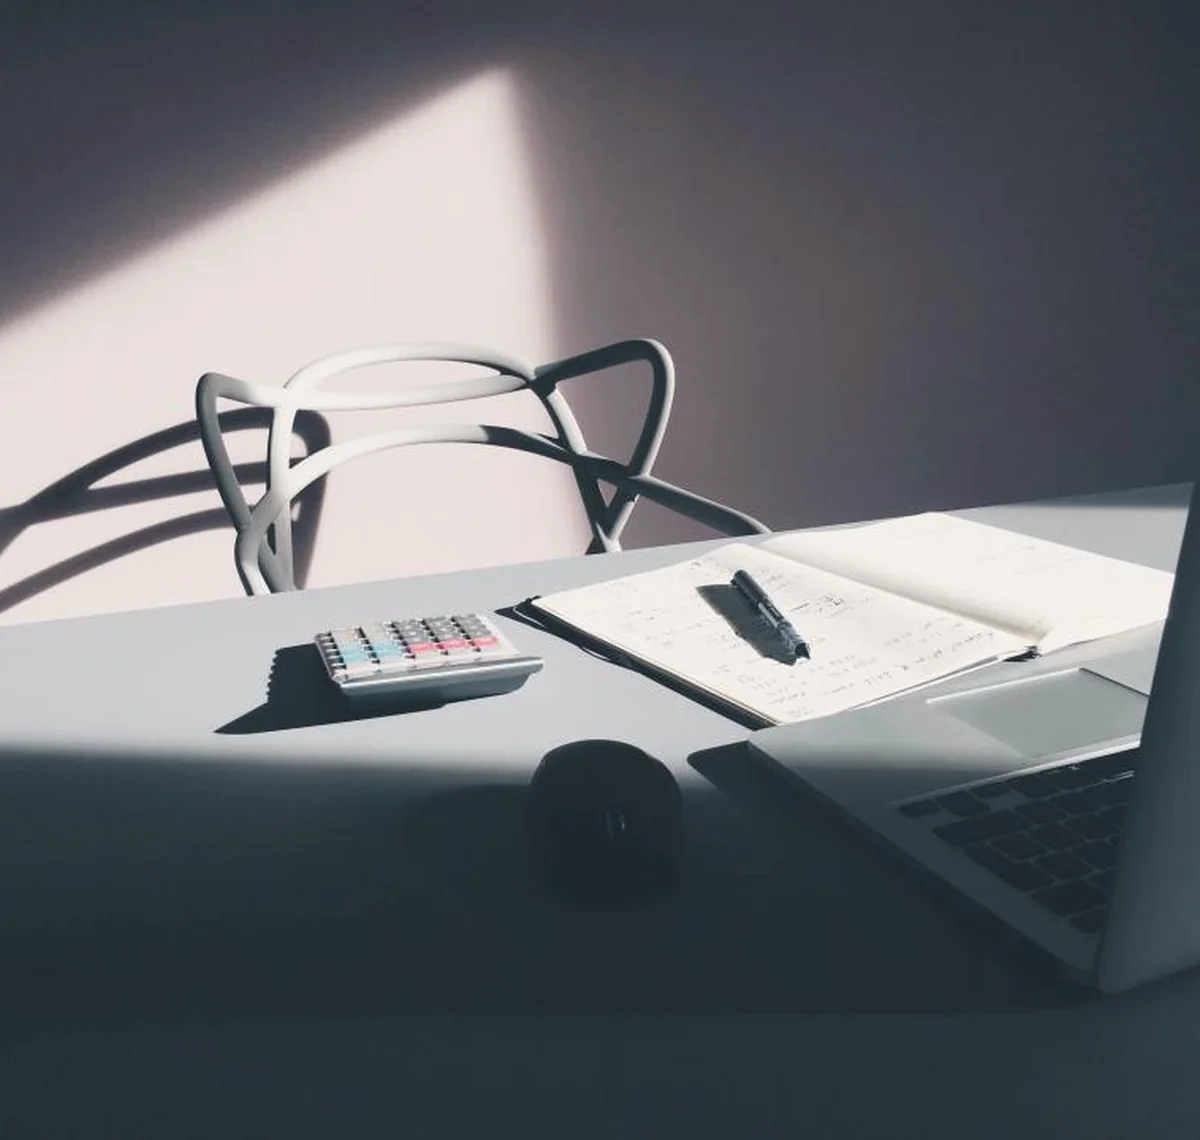
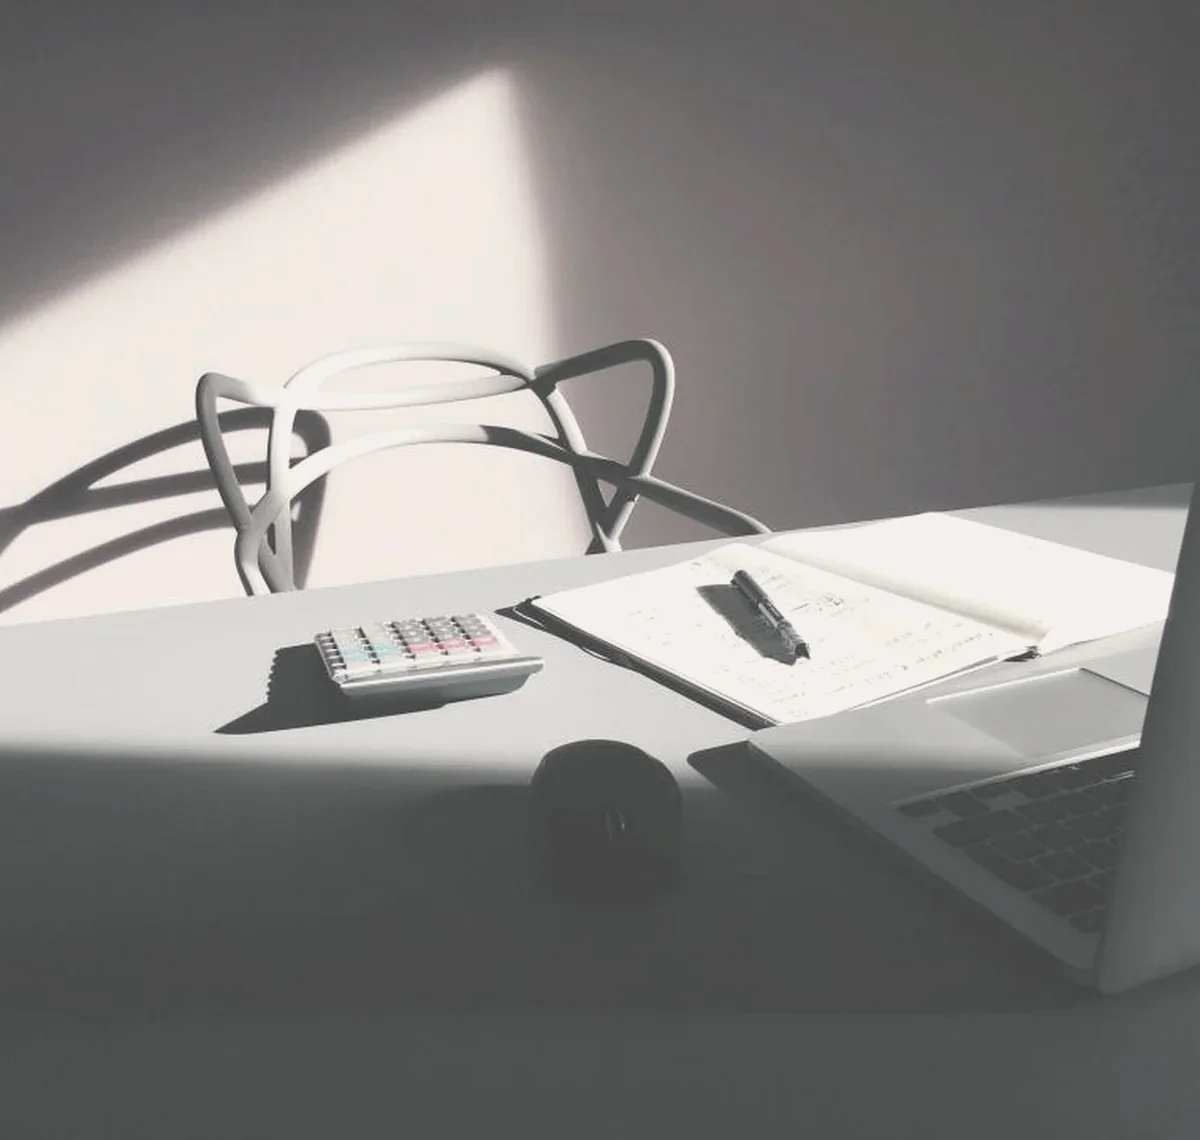
fix: refine homepage journey artwork

diff --git a/frontend/src/assets/home-journey/ATTRIBUTION.md b/frontend/src/assets/home-journey/ATTRIBUTION.md
@@ -5,13 +5,13 @@ All images are stored locally and were cropped, resized, and color-graded for th
 | Local file | Source title | Author | License | Source |
 | --- | --- | --- | --- | --- |
 | `path-europe.webp` | A view with cloudy sky and biking woman over the city canal Nieuwe Keizersgracht in Amsterdam | Fons Heijnsbroek | [CC0 1.0](https://creativecommons.org/publicdomain/zero/1.0/) | [Wikimedia Commons](https://commons.wikimedia.org/w/index.php?curid=180645132) |
-| `path-germany.webp` | Berlin Germany | Travel Coffee Book | [CC0 1.0](https://creativecommons.org/publicdomain/zero/1.0/) | [StockSnap](https://stocksnap.io/photo/berlin-germany-8A981F99AC) |
+| `path-germany.webp` | Schillermonument Konzerthaussteps | Dave Meier | [CC0 1.0](https://creativecommons.org/publicdomain/zero/1.0/) | [StockSnap](https://stocksnap.io/photo/schillermonument-konzerthaussteps-803CD628BB) |
 | `path-uk.webp` | London England | Rob Bye | [CC0 1.0](https://creativecommons.org/publicdomain/zero/1.0/) | [StockSnap](https://stocksnap.io/photo/london-england-Q5F4Y33RNK) |
-| `path-us.webp` | Central Park during Autumn, NYC | Ed Yourdon | [CC BY-SA 2.0](https://creativecommons.org/licenses/by-sa/2.0/) | [Wikimedia Commons](https://commons.wikimedia.org/w/index.php?curid=9785644) |
-| `path-canada.webp` | View of Mimico Waterfront Park and buildings, Toronto 2026 | Chicken4War | [CC BY-SA 4.0](https://creativecommons.org/licenses/by-sa/4.0/) | [Wikimedia Commons](https://commons.wikimedia.org/w/index.php?curid=187444277) |
-| `path-australia.webp` | Wentworth park, Sydney (40469228475) | Michel Rathwell | [CC BY 2.0](https://creativecommons.org/licenses/by/2.0/) | [Wikimedia Commons](https://commons.wikimedia.org/w/index.php?curid=68646382) |
+| `path-us.webp` | Sheep Meadow, Central Park during Autumn, NYC | Ed Yourdon | [CC BY-SA 2.0](https://creativecommons.org/licenses/by-sa/2.0/) | [Wikimedia Commons](https://commons.wikimedia.org/w/index.php?curid=9785701) |
+| `path-canada.webp` | Toronto cyclist and skyline September 2010 | Henrik Moltke | [CC BY 2.0](https://creativecommons.org/licenses/by/2.0/) | [Wikimedia Commons](https://commons.wikimedia.org/w/index.php?curid=11515286) |
+| `path-australia.webp` | 2019-04 Blue Mountains National Park 03 | 0x010C | [CC BY-SA 4.0](https://creativecommons.org/licenses/by-sa/4.0/) | [Wikimedia Commons](https://commons.wikimedia.org/w/index.php?curid=79460460) |
 | `path-japan.webp` | Road Path | Freddie Marriage | [CC0 1.0](https://creativecommons.org/publicdomain/zero/1.0/) | [StockSnap](https://stocksnap.io/photo/road-path-H966MN75RM) |
-| `path-global.webp` | Diverse Workplace | Direct Media | [CC0 1.0](https://creativecommons.org/publicdomain/zero/1.0/) | [StockSnap](https://stocksnap.io/photo/diverse-workplace-UJ1P4WLT4N) |
+| `path-global.webp` | Group students table studying. View | Creator not specified by source (rawpixel.com) | [Public Domain Mark 1.0](https://creativecommons.org/publicdomain/mark/1.0/) | [rawpixel](https://www.rawpixel.com/image/8809342/photo-image-paper-women-public-domain) |
 | `prepare-essay.webp` | Writing Desk | Burst | [CC0 1.0](https://creativecommons.org/publicdomain/zero/1.0/) | [StockSnap](https://stocksnap.io/photo/writing-desk-E8VATIYGAF) |
 | `prepare-leadership.webp` | Team Meeting | Startup Stock Photos | [CC0 1.0](https://creativecommons.org/publicdomain/zero/1.0/) | [StockSnap](https://stocksnap.io/photo/team-meeting-JBW2PXDOL6) |
 | `prepare-cv.webp` | Writing Paper | Helloquence | [CC0 1.0](https://creativecommons.org/publicdomain/zero/1.0/) | [StockSnap](https://stocksnap.io/photo/writing-paper-KU273L0WTW) |
